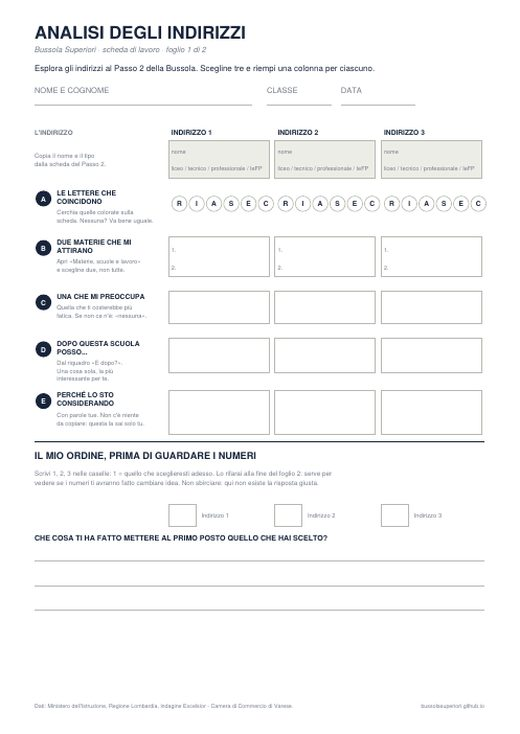
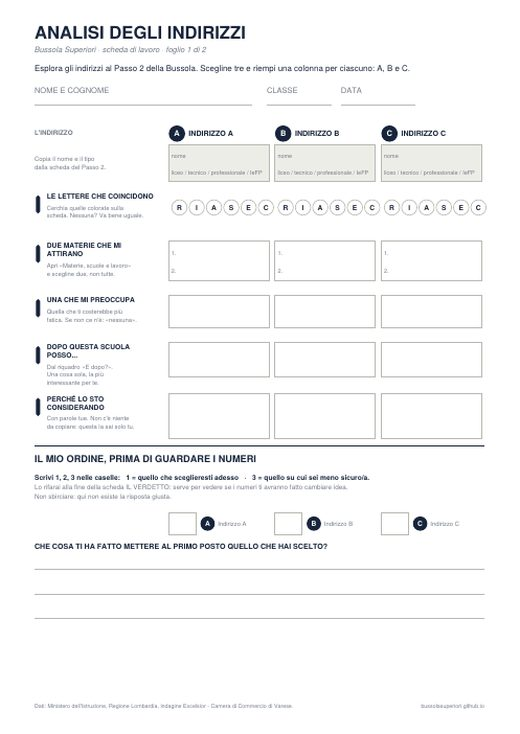
Add files via upload

diff --git a/bussola/index.html b/bussola/index.html
@@ -24,6 +24,13 @@
     --coral:#D9482A; --coral-soft:#FBE7E1; --teal:#12756B; --teal-soft:#DEF0ED;
     --shadow:0 1px 2px rgba(22,35,58,.06), 0 8px 24px rgba(22,35,58,.05);
     --r:14px;
+    --hdr:#16233A; --btn:#C2401F; --on-btn:#FFFFFF;
+    --btn2-bg:#FFFFFF; --btn2-ink:#16233A; --btn2-line:#8E97A4; --btn2-hover:#F3F1EA;
+    --add-bg:#DEF0ED; --add-ink:#0E5F57; --add-line:#12756B; --on-teal:#FFFFFF;
+    --chip-on-bg:#16233A; --chip-on-ink:#FBFAF6;
+    --box-bg:#16233A; --box-line:transparent; --code:#FFA98F;
+    --th-bg:#16233A; --th-ink:#FBFAF6;
+    color-scheme:light;
   }
   @media (prefers-color-scheme:dark){
     :root:not([data-theme="light"]){
@@ -31,6 +38,13 @@
       --line:#2C3A54; --line-strong:#41527094; --muted:#A3AFC2;
       --coral:#FF8163; --coral-soft:#3A2119; --teal:#4FD3C0; --teal-soft:#10312F;
       --shadow:0 1px 2px rgba(0,0,0,.3), 0 8px 24px rgba(0,0,0,.25);
+      --hdr:#0B1322; --btn:#FF8163; --on-btn:#251009;
+      --btn2-bg:#24324D; --btn2-ink:#EDEFF3; --btn2-line:#6B7C9C; --btn2-hover:#2C3C5B;
+      --add-bg:#10312F; --add-ink:#7FE3D5; --add-line:#4FD3C0; --on-teal:#07201E;
+      --chip-on-bg:#4FD3C0; --chip-on-ink:#07201E;
+      --box-bg:#1E2B43; --box-line:#2C3A54; --code:#FF8163;
+      --th-bg:#1E2B43; --th-ink:#EDEFF3;
+      color-scheme:dark;
     }
   }
   :root[data-theme="dark"]{
@@ -38,6 +52,13 @@
     --line:#2C3A54; --line-strong:#41527094; --muted:#A3AFC2;
     --coral:#FF8163; --coral-soft:#3A2119; --teal:#4FD3C0; --teal-soft:#10312F;
     --shadow:0 1px 2px rgba(0,0,0,.3), 0 8px 24px rgba(0,0,0,.25);
+    --hdr:#0B1322; --btn:#FF8163; --on-btn:#251009;
+    --btn2-bg:#24324D; --btn2-ink:#EDEFF3; --btn2-line:#6B7C9C; --btn2-hover:#2C3C5B;
+    --add-bg:#10312F; --add-ink:#7FE3D5; --add-line:#4FD3C0; --on-teal:#07201E;
+    --chip-on-bg:#4FD3C0; --chip-on-ink:#07201E;
+    --box-bg:#1E2B43; --box-line:#2C3A54; --code:#FF8163;
+    --th-bg:#1E2B43; --th-ink:#EDEFF3;
+    color-scheme:dark;
   }
 
   *{box-sizing:border-box}
@@ -49,13 +70,13 @@
   .wrap{max-width:1140px; margin:0 auto; padding-inline:18px; padding-block:0 64px}
   h1,h2,h3,.disp{font-family:'Oswald','Arial Narrow',Arial,sans-serif; font-weight:600; letter-spacing:.2px; text-wrap:balance; margin:0}
   a{color:var(--teal)}
-  button{font-family:inherit}
+  html{-webkit-text-size-adjust:100%}
+  button,select,input,textarea{font-family:inherit}
+  button{-webkit-appearance:none; appearance:none; color:inherit; -webkit-tap-highlight-color:transparent; touch-action:manipulation}
   :focus-visible{outline:3px solid var(--coral); outline-offset:2px; border-radius:6px}
 
   /* ---- header ---- */
-  header.top{background:var(--ink); color:#F6F4EF; padding-block:26px 22px}
-  :root[data-theme="dark"] header.top, :root:not([data-theme="light"]) header.top{border-bottom:1px solid var(--line)}
-  @media (prefers-color-scheme:dark){:root:not([data-theme="light"]) header.top{background:#0B1322}}
+  header.top{background:var(--hdr); color:#F6F4EF; padding-block:26px 22px; border-bottom:1px solid var(--box-line)}
   .top .wrap{padding-block:0}
   .kicker{font-family:'Oswald',Arial,sans-serif; font-size:13px; letter-spacing:3px; text-transform:uppercase; color:#8FA6B8; margin:0 0 6px}
   header.top h1{font-size:clamp(30px,5vw,44px); color:#FBFAF6; text-transform:uppercase; line-height:1.05}
@@ -98,25 +119,31 @@
   .area output{font-family:'Oswald',Arial,sans-serif; font-size:22px; min-width:2.2ch; text-align:right; font-variant-numeric:tabular-nums}
 
   .codebox{
-    margin-top:26px; background:var(--ink); color:#FBFAF6; border-radius:var(--r);
+    margin-top:26px; background:var(--box-bg); border:1px solid var(--box-line); color:#FBFAF6; border-radius:var(--r);
     padding:22px 24px; display:flex; flex-wrap:wrap; align-items:center; gap:22px;
   }
-  :root[data-theme="dark"] .codebox, :root:not([data-theme="light"]) .codebox{background:var(--surface-2); border:1px solid var(--line)}
   .codebox .lbl{font-family:'Oswald',Arial,sans-serif; font-size:12px; letter-spacing:2.5px; text-transform:uppercase; color:#8FA6B8}
-  .code{font-family:'Oswald',Arial,sans-serif; font-size:52px; font-weight:700; letter-spacing:8px; line-height:1; color:#FF8163}
-  :root:not([data-theme="dark"]) .codebox .code{color:#FFA98F}
+  .code{font-family:'Oswald',Arial,sans-serif; font-size:52px; font-weight:700; letter-spacing:8px; line-height:1; color:var(--code)}
   .codebox .exp{font-size:14.5px; color:#C3CEDB; max-width:46ch}
 
   /* ---- buttons ---- */
   .btn{
-    display:inline-flex; align-items:center; gap:9px; border:0; cursor:pointer;
-    background:var(--coral); color:#fff; font-weight:700; font-size:16px;
-    padding:13px 24px; border-radius:999px;
+    display:inline-flex; align-items:center; justify-content:center; gap:9px; cursor:pointer;
+    min-height:48px; padding:12px 24px; border-radius:999px; border:2px solid var(--btn);
+    background:var(--btn); color:var(--on-btn); font-weight:800; font-size:16px; line-height:1.2; text-align:center;
+    box-shadow:0 2px 0 rgba(22,35,58,.18), 0 6px 16px rgba(194,64,31,.18);
+    transition:transform .15s ease, box-shadow .15s ease, background-color .15s ease, filter .15s ease;
   }
-  :root[data-theme="dark"] .btn, :root:not([data-theme="light"]) .btn{color:#251009}
-  .btn.ghost{background:transparent; color:var(--ink); border:1.5px solid var(--line-strong); font-weight:600}
-  .btn.small{padding:8px 16px; font-size:14px}
-  .btn:hover{filter:brightness(1.06)}
+  .btn:hover{filter:brightness(1.06); transform:translateY(-1px)}
+  .btn:active{transform:translateY(1px); box-shadow:none}
+  .btn.ghost{background:var(--btn2-bg); color:var(--btn2-ink); border-color:var(--btn2-line); font-weight:700; box-shadow:0 1px 2px rgba(22,35,58,.08)}
+  .btn.ghost:hover{background:var(--btn2-hover); filter:none}
+  .btn.small{min-height:42px; padding:9px 18px; font-size:15px}
+  /* passo 2: "Aggiungi al confronto" ben visibile, e diverso quando e' gia' scelto */
+  .btn.add{background:var(--add-bg); color:var(--add-ink); border-color:var(--add-line); box-shadow:none}
+  .btn.add:hover{filter:brightness(.97)}
+  .btn.add .pl{font-size:20px; line-height:1; font-weight:700; margin-top:-2px}
+  .btn.add.on{background:var(--teal); color:var(--on-teal); border-color:var(--teal)}
   .actions{display:flex; flex-wrap:wrap; gap:12px; margin-top:30px; align-items:center}
 
   /* ---- filters ---- */
@@ -125,8 +152,8 @@
     border:1.5px solid var(--line-strong); background:var(--surface); color:var(--muted);
     border-radius:999px; padding:7px 15px; font-size:14px; font-weight:600; cursor:pointer;
   }
-  .chip[aria-pressed="true"]{background:var(--ink); color:var(--surface); border-color:var(--ink)}
-  :root[data-theme="dark"] .chip[aria-pressed="true"], :root:not([data-theme="light"]) .chip[aria-pressed="true"]{background:var(--teal); color:#07201E; border-color:var(--teal)}
+  .chip{min-height:40px; transition:background-color .15s ease, color .15s ease}
+  .chip[aria-pressed="true"]{background:var(--chip-on-bg); color:var(--chip-on-ink); border-color:var(--chip-on-bg)}
   .count{font-size:14px; color:var(--muted); margin:14px 0 0}
 
   /* ---- cards ---- */
@@ -142,8 +169,7 @@
     font-family:'Oswald',Arial,sans-serif; font-weight:600; font-size:14px;
     background:var(--surface-2); color:var(--muted); border:1.5px solid var(--line);
   }
-  .let-pill.on{background:var(--coral); color:#fff; border-color:var(--coral)}
-  :root[data-theme="dark"] .let-pill.on, :root:not([data-theme="light"]) .let-pill.on{color:#251009}
+  .let-pill.on{background:var(--btn); color:var(--on-btn); border-color:var(--btn)}
   .strip{margin:0; font-size:13.5px; color:var(--teal); background:var(--teal-soft);
     border-radius:9px; padding:8px 11px; line-height:1.4}
   .strip.none{color:var(--muted); background:transparent; border:1px dashed var(--line-strong)}
@@ -159,8 +185,7 @@
   .tre{background:var(--surface-2); border:1px solid var(--line); border-radius:12px; padding:16px 18px}
   .tre .lab{font-family:'Oswald',Arial,sans-serif; font-size:11px; letter-spacing:1.6px;
     text-transform:uppercase; color:var(--muted); display:flex; gap:7px; align-items:center}
-  .tre .lab i{font-style:normal; width:19px; height:19px; border-radius:50%; background:var(--ink);
-    color:var(--surface); display:grid; place-items:center; font-size:11px; font-weight:700}
+  .tre .lab i{font-style:normal; font-size:16px; line-height:1; letter-spacing:0}
   .tre .big{font-family:'Oswald',Arial,sans-serif; font-size:34px; font-weight:700; line-height:1.05;
     margin:9px 0 3px; color:var(--ink)}
   .tre .sub{font-size:13px; color:var(--muted); line-height:1.4; margin:0}
@@ -189,7 +214,7 @@
     text-transform:uppercase; color:var(--muted); border:1px solid var(--line-strong);
     border-radius:99px; padding:1px 7px; vertical-align:1px}
   .slist .sm{font-size:12.5px; color:var(--muted); font-variant-numeric:tabular-nums}
-  select{font-family:'Nunito Sans',sans-serif; font-size:15px; color:var(--ink);
+  select{font-family:'Nunito Sans',sans-serif; font-size:16px; min-height:44px; color:var(--ink);
     background:var(--surface-2); border:1px solid var(--line-strong); border-radius:9px;
     padding:10px 12px; text-transform:none; letter-spacing:0; width:100%; max-width:100%}
   label.f select + input[type=text]{margin-top:7px}
@@ -210,8 +235,7 @@
   .tablewrap{overflow-x:auto; margin-top:22px; border:1px solid var(--line); border-radius:var(--r); background:var(--surface)}
   table{border-collapse:collapse; width:100%; min-width:600px; font-size:14.5px}
   th,td{text-align:left; padding:13px 16px; border-bottom:1px solid var(--line); vertical-align:top}
-  thead th{background:var(--ink); color:#FBFAF6; font-family:'Oswald',Arial,sans-serif; font-weight:500; font-size:15px; position:sticky; top:0}
-  :root[data-theme="dark"] thead th, :root:not([data-theme="light"]) thead th{background:var(--surface-2); color:var(--ink)}
+  thead th{background:var(--th-bg); color:var(--th-ink); font-family:'Oswald',Arial,sans-serif; font-weight:500; font-size:15px; position:sticky; top:0}
   tbody th{font-family:'Oswald',Arial,sans-serif; font-weight:500; font-size:12px; letter-spacing:1.5px; text-transform:uppercase; color:var(--muted); width:170px}
   tbody tr:last-child th, tbody tr:last-child td{border-bottom:0}
 
@@ -224,8 +248,8 @@
   .fields{display:grid; grid-template-columns:repeat(auto-fit,minmax(230px,1fr)); gap:14px}
   label.f{display:flex; flex-direction:column; gap:5px; font-size:12px; font-family:'Oswald',Arial,sans-serif; letter-spacing:1.5px; text-transform:uppercase; color:var(--muted)}
   input[type=text], textarea{
-    font-family:'Nunito Sans',sans-serif; font-size:15px; color:var(--ink);
-    background:var(--surface-2); border:1px solid var(--line-strong); border-radius:9px; padding:10px 12px;
+    font-family:'Nunito Sans',sans-serif; font-size:16px; color:var(--ink);
+    background:var(--surface-2); border:1px solid var(--line-strong); border-radius:9px; padding:10px 12px; min-height:44px;
     text-transform:none; letter-spacing:0; width:100%;
   }
   textarea{min-height:74px; resize:vertical}
@@ -238,6 +262,35 @@
   .hint{font-size:13.5px; color:var(--muted)}
 
   #printhead{display:none}
+
+  /* ---- tablet e telefono ---- */
+  @media (max-width:820px){
+    .panel{padding-block:26px}
+    .grid{grid-template-columns:repeat(auto-fill,minmax(280px,1fr))}
+  }
+  @media (max-width:560px){
+    .wrap{padding-inline:16px}
+    header.top{padding-block:20px 16px}
+    .rail li{min-width:112px}
+    .rail button{padding:10px 10px 8px}
+    .lede{font-size:16px}
+    .code{font-size:44px; letter-spacing:6px}
+    .codebox{padding:18px}
+    /* pulsanti di navigazione: uno sotto l'altro, larghi quanto lo schermo, quello per andare avanti in alto */
+    .actions, .printbar{flex-direction:column; align-items:stretch}
+    .actions .btn, .printbar .btn{width:100%}
+    .actions .btn:not(.ghost), .printbar .btn:not(.ghost){order:-1}
+    .card .foot{flex-direction:column; align-items:stretch}
+    .card .foot .btn{width:100%}
+    .card .foot .lnk{align-self:flex-start}
+    .verd{padding:18px}
+    th,td{padding:11px 12px}
+    /* confronto: le etichette restano ferme a sinistra mentre si scorre di lato */
+    table{min-width:0}
+    td{min-width:210px}
+    tbody th{width:112px; min-width:112px; position:sticky; left:0; z-index:1; background:var(--surface); box-shadow:1px 0 0 var(--line)}
+    thead th:first-child{position:sticky; left:0; z-index:2}
+  }
 
   @media print{
     body{background:#fff; color:#000; font-size:12pt}
@@ -255,6 +308,7 @@
   .sitenav{display:flex; gap:18px; flex-wrap:wrap; margin:0 0 14px; font-size:14px; font-weight:700}
   .sitenav a{color:#B7C4D4; text-decoration:none}
   .sitenav a:hover{color:#FBFAF6; text-decoration:underline}
+  @media (max-width:560px){ .sitenav{gap:6px 14px; font-size:13px} }
 </style>
 
 <header class="top">
@@ -307,7 +361,7 @@
   <!-- ============ PASSO 2 ============ -->
   <section id="s2" class="panel" aria-labelledby="h2a" hidden>
     <h2 class="sec" id="h2a">Gli indirizzi che esistono</h2>
-    <p class="lede">Sono gli indirizzi attivi in provincia di Varese: licei, istituti tecnici, professionali e percorsi IeFP. In cima trovi quelli pi&ugrave; vicini al tuo codice. Aprine almeno cinque, poi scegline tre e compila il <b>foglio 1</b>.</p>
+    <p class="lede">Sono gli indirizzi attivi in provincia di Varese: licei, istituti tecnici, professionali e percorsi IeFP. In cima trovi quelli pi&ugrave; vicini al tuo codice. Aprine almeno cinque, poi scegline tre e compila la scheda <b>Analisi degli indirizzi</b> (foglio 1): un indirizzo per colonna, <b>A</b>, <b>B</b> e <b>C</b>.</p>
 
     <div class="filters" role="group" aria-label="Filtra per tipo di scuola">
       <button class="chip" type="button" data-f="all" aria-pressed="true">Tutti</button>
@@ -840,12 +894,12 @@
 
   function jobBlock(c){
     var j = lavOf(c), dt = '<dt>E il lavoro, qui in provincia</dt>';
-    // Un liceo non prepara a un mestiere: prepara a proseguire. Mostrare la sua
+    // Un liceo generalmente non prepara a un mestiere ma a proseguire. Mostrare la sua
     // "difficolta' di reperimento" accanto a quella di un tecnico fa leggere un dato
     // sbagliato: sembra che il liceo "valga meno". Per i licei cambiamo discorso.
     if(c.t === "liceo"){
       return dt + '<dd><div class="job liceo">' +
-        '<p class="jrow"><b>Il liceo non prepara a un mestiere: prepara a continuare a studiare.</b></p>' +
+        '<p class="jrow"><b>Il liceo generalmente prepara a continuare a studiare, non a essere assunti subito.</b></p>' +
         (j && j.en
           ? '<p class="jrow">Nel 2022 le imprese della provincia prevedevano circa <b>' + num(j.en) + '</b> assunzioni di diplomati di liceo, ' +
             'contro le migliaia di settori come meccanica o amministrazione. Non è un difetto: è che il liceo punta altrove.</p>'
@@ -909,8 +963,8 @@
           '</dl>'+
         '</details>'+
         '<div class="foot">'+
-          '<button class="btn small'+(on?'':' ghost')+'" type="button" data-pick="'+i+'">'+
-            (on?'&#10003; Nel confronto':'Aggiungi al confronto')+'</button>'+
+          '<button class="btn small add'+(on?' on':'')+'" type="button" data-pick="'+i+'" aria-pressed="'+(on?'true':'false')+'">'+
+            (on?'&#10003; Nel confronto':'<span class="pl" aria-hidden="true">+</span> Aggiungi al confronto')+'</button>'+
           '<a class="lnk" target="_blank" rel="noopener" href="'+BASE+c.slug+'/">Chi lo fa qui &#8599;</a>'+
         '</div>'+
       '</article>';
@@ -958,7 +1012,7 @@
                    return "da " + v[0] + " a " + v[v.length-1] + ", a seconda della scuola";
                  }],
                 ["Le imprese lo trovano?", function(c){
-                   if(c.t === "liceo") return "il liceo prepara a proseguire gli studi, non ad assumere subito";
+                   if(c.t === "liceo") return "il liceo generalmente prepara a continuare a studiare, non a essere assunti subito";
                    var j = lavOf(c);
                    if(!j) return "nessun dato per questo profilo";
                    return pct(j.d) + " delle assunzioni è difficile da coprire (" + medLab(j) + ": " + pct(j.m) + ")";
@@ -1069,7 +1123,7 @@
       var scelta = n.s ? schoolByName(c, n.s) : null;
       var j = lavOf(c);
 
-      // A — quante scuole e la piu' vicina
+      // quante scuole e la piu' vicina
       var nA = nInst(L), xA = nInst(closedFor(c));
       var a = L.length
         ? '<p class="big">' + nA + '</p><p class="sub">' +
@@ -1078,11 +1132,11 @@
           (xA ? ' Non contiamo ' + (xA === 1 ? 'una scuola' : xA + ' scuole') + ' che nel 2024/25 non ha' + (xA === 1 ? '' : 'nno') + ' formato la prima.' : '') + '</p>'
         : '<p class="big">—</p><p class="sub">Nessuna nei dati ufficiali: cercala su Guida Percorsi.</p>';
 
-      // B — le imprese
+      // le imprese
       var isLic = c.t === "liceo";
       var bcls = (j && !isLic && j.d > j.m) ? " warn" : "";
       var b = isLic
-        ? '<p class="big">LICEO</p><p class="sub">Il liceo prepara a continuare a studiare, non a essere assunti ' +
+        ? '<p class="big">LICEO</p><p class="sub">Il liceo generalmente prepara a continuare a studiare, non a essere assunti ' +
           'subito: questo numero qui non serve. Sulla scheda scrivi <b>LICEO</b>.</p>'
         : j
         ? '<p class="big">' + pct(j.d) + '</p><p class="sub">delle assunzioni previste per ' + j.pop + ' di questo ' + scope(j) +
@@ -1090,7 +1144,7 @@
           (j.d > j.m ? 'più alta' : j.d < j.m ? 'più bassa' : 'uguale') + '</b>.</p>'
         : '<p class="big">—</p><p class="sub">Per questo profilo non c’è un dato provinciale. Sulla scheda scrivi <b>ND</b>.</p>';
 
-      // C — quanti arrivano in seconda
+      // quanti arrivano in seconda
       var c3, ccls = "";
       if(scelta && scelta.ten){
         ccls = scelta.ten < 85 ? " warn" : "";
@@ -1114,13 +1168,13 @@
                                     : (n.s ? 'Scuola scritta a mano: <b>' + esc(n.s) + '</b>'
                                            : 'Nessuna scuola scelta al passo 4')) + '</p>' +
         '<div class="three">' +
-          '<div class="tre"><span class="lab"><i>A</i> Quante scuole</span>' + a + '</div>' +
-          '<div class="tre' + bcls + '"><span class="lab"><i>B</i> Le imprese la trovano?</span>' + b + '</div>' +
-          '<div class="tre' + ccls + '"><span class="lab"><i>C</i> In seconda, ogni 100</span>' + c3 + '</div>' +
+          '<div class="tre"><span class="lab"><i aria-hidden="true">📍</i> Quante scuole</span>' + a + '</div>' +
+          '<div class="tre' + bcls + '"><span class="lab"><i aria-hidden="true">🏭</i> Le imprese la trovano?</span>' + b + '</div>' +
+          '<div class="tre' + ccls + '"><span class="lab"><i aria-hidden="true">🎒</i> In seconda, ogni 100</span>' + c3 + '</div>' +
         '</div>' +
         '<div class="ask"><h4>Adesso rispondi tu</h4><ol>' +
           '<li>Quale dei tre numeri non ti aspettavi?</li>' +
-          '<li>Dopo averli letti, questa scuola sale o scende rispetto all\u2019ordine del <b>foglio 1</b>? Perch\u00e9?</li>' +
+          '<li>Dopo averli letti, questa scuola sale o scende rispetto all\u2019ordine che avevi scritto sulla scheda <b>Analisi degli indirizzi</b>? Perch\u00e9?</li>' +
           '<li>Scrivi <b>una</b> domanda da fare all\u2019open day che ti \u00e8 venuta guardando questi numeri.</li>' +
         '</ol><p class="scrivi">Le risposte vanno sulla scheda di carta (<a href="../#schede">la scarichi qui</a>), non qui.</p></div>' +
       '</div>';
@@ -1129,8 +1183,8 @@
     out += '<div class="verd"><h3>L\u2019ultima cosa</h3>' +
       '<p class="who">Da fare dopo aver compilato tutte le schede.</p>' +
       '<div class="ask" style="border-top:0; padding-top:0"><h4>Il tuo ordine, adesso</h4><ol>' +
-      '<li>Rimetti in fila le tue scuole dalla 1 alla 3, come le vedi <b>adesso</b>.</li>' +
-      '<li>Confronta con l\u2019ordine che avevi scritto sul <b>foglio 1</b>, prima di vedere i numeri.</li>' +
+      '<li>Rimetti in fila le tue scuole dalla 1 alla 3, come le vedi <b>adesso</b>: 1 = quella che sceglieresti, 3 = quella su cui sei meno sicuro o sicura.</li>' +
+      '<li>Confronta con l\u2019ordine che avevi scritto sulla scheda <b>Analisi degli indirizzi</b>, prima di vedere i numeri.</li>' +
       '<li>Se \u00e8 cambiato, che cosa l\u2019ha fatto cambiare?</li>' +
       '<li>Se non \u00e8 cambiato niente, va benissimo: adesso per\u00f2 sai <b>perch\u00e9</b>.</li>' +
       '</ol></div></div>';

diff --git a/famiglie.html b/famiglie.html
@@ -87,19 +87,19 @@
       <p class="lede">Per ogni scuola scelta, la Bussola mostra tre numeri. Nessuno dei tre dice se una scuola è «buona»: servono a fare domande migliori.</p></div>
       <div class="cards">
         <div class="num-card" data-reveal="0">
-          <span class="tag">A</span>
+          <span class="tag" aria-hidden="true">📍</span>
           <h3>Quante scuole</h3>
           <p>Quante scuole in provincia offrono quell'indirizzo con una classe prima, e quanto è lontana la più vicina.</p>
           <p>Un indirizzo offerto da una sola scuola lontana significa viaggi lunghi tutti i giorni, per cinque anni: va messo nel conto.</p>
         </div>
         <div class="num-card" data-reveal="1">
-          <span class="tag">B</span>
+          <span class="tag" aria-hidden="true">🏭</span>
           <h3>Le imprese la trovano?</h3>
           <p>Su 100 assunzioni previste in quel settore, quante sono difficili da coprire perché le imprese non trovano candidati adatti. Più è alta, più le imprese faticano a trovare persone con quel titolo. Dati Excelsior 2022.</p>
-          <p>Per i licei questo numero non si usa: il liceo prepara a continuare gli studi, non a essere assunti subito.</p>
+          <p>Per i licei questo numero non si usa: il liceo generalmente prepara a continuare a studiare, non a essere assunti subito.</p>
         </div>
         <div class="num-card" data-reveal="2">
-          <span class="tag">C</span>
+          <span class="tag" aria-hidden="true">🎒</span>
           <h3>In seconda, ogni 100</h3>
           <p>Quanti ragazzi c'erano in seconda nel 2024/25, ogni 100 che erano in prima l'anno prima, contando tutto l'istituto. In provincia metà delle scuole è a 88 o più.</p>
           <p>Non è la percentuale di promossi: conta anche chi arriva da altre scuole o ripete l'anno, per questo a volte supera 100. Per le paritarie il dato non è pubblicato.</p>

diff --git a/assets/site.css b/assets/site.css
@@ -206,9 +206,8 @@ h2{font-size:clamp(30px,4.2vw,42px)}
   transition:transform .3s var(--ease), box-shadow .3s var(--ease);
 }
 .num-card:hover{transform:translateY(-4px); box-shadow:var(--shadow)}
-.num-card .tag{display:inline-grid; place-items:center; font-family:'Oswald',Arial,sans-serif; font-weight:700; font-size:22px; background:var(--hero); color:var(--hero-ink); width:44px; height:44px; border-radius:12px; margin-bottom:14px}
-.num-card:nth-child(2) .tag{background:var(--accent); color:#fff}
-.num-card:nth-child(3) .tag{background:var(--teal); color:#fff}
+.num-card .tag{display:inline-grid; place-items:center; font-size:24px; line-height:1; background:var(--teal-soft); width:48px; height:48px; border-radius:14px; margin-bottom:14px}
+.num-card:nth-child(2) .tag{background:var(--accent-soft)}
 .num-card h3{font-size:23px; margin-bottom:8px}
 .num-card p{color:var(--muted); font-size:16px}
 .num-card p + p{margin-top:10px}
